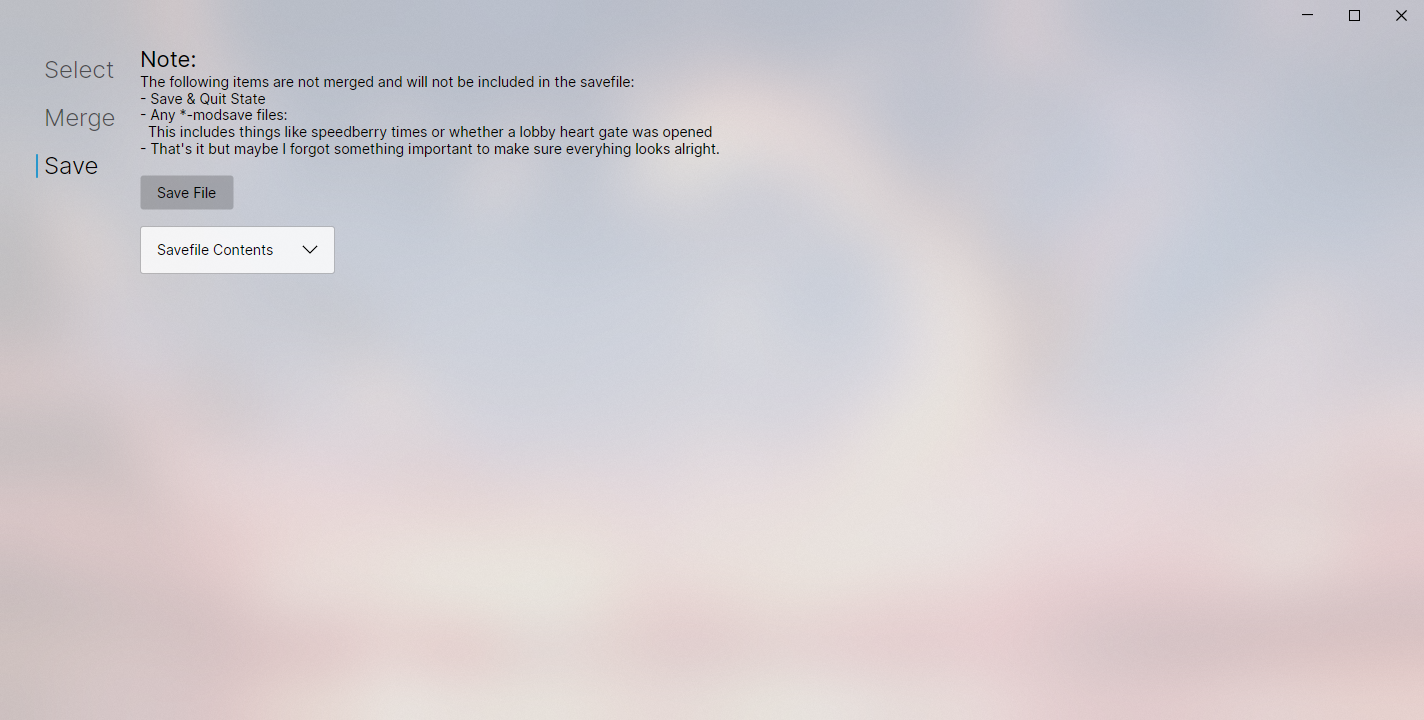
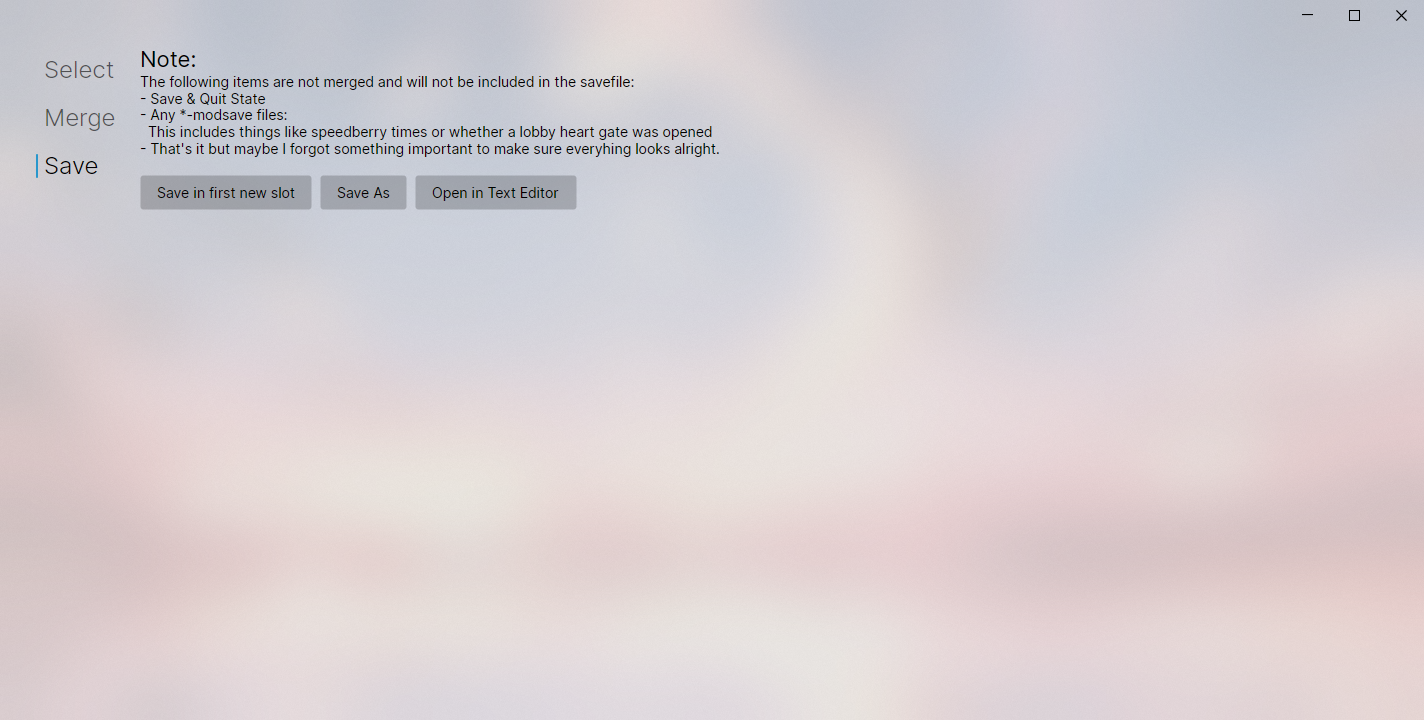
rework save screen

Changed region(s): [[0.0927, 0.2444, 0.4017, 0.3972], [0.3708, 0.0, 0.5253, 0.1528], [0.5871, 0.4278, 0.618, 0.4583]]

diff --git a/SaveMerger/ViewModels/MainWindowViewModel.cs b/SaveMerger/ViewModels/MainWindowViewModel.cs
@@ -3,7 +3,9 @@ using System.Collections.ObjectModel;
 using System.Diagnostics;
 using System.IO;
 using System.Linq;
+using System.Runtime.InteropServices;
 using System.Security;
+using System.Text;
 using System.Xml.Linq;
 using Avalonia.Controls.Selection;
 using Avalonia.Data;
@@ -67,7 +69,10 @@ public partial class MainWindowViewModel : ViewModelBase {
 
     // Select Tab
     public ObservableCollection<Savefile> Savefiles { get; private set; } = [];
+
+    // when not in Select Tab, there is always something selected
     public SelectionModel<Savefile> Selection { get; } = new();
+
     public bool EnoughSelectedToMerge => Selection.Count >= 1;
 
     // Merge Tab
@@ -77,6 +82,9 @@ public partial class MainWindowViewModel : ViewModelBase {
 
     // Save Tab
     [ObservableProperty] private string? _mergedXml;
+    [ObservableProperty] private string? _successText;
+
+    private string? _savedFilename;
 
     #endregion
 
@@ -121,9 +129,10 @@ public partial class MainWindowViewModel : ViewModelBase {
 
     public void Merge() {
         Error = "";
+        _savedFilename = null;
 
         TryError(() => {
-            var saves = Selection.SelectedItems.Select(savefile => savefile.Document);
+            var saves = Selection.SelectedItems.Select(savefile => savefile!.Document);
             var (result, resolutions, errors) = SaveMerger.SaveMerger.Merge(saves);
             _document = result;
 
@@ -148,6 +157,7 @@ public partial class MainWindowViewModel : ViewModelBase {
     }
 
     public void Resolve() {
+        SuccessText = "";
         Error = "";
 
         TryError(() => {
@@ -162,18 +172,43 @@ public partial class MainWindowViewModel : ViewModelBase {
         });
     }
 
-    public async void Save() {
+    public async void SaveNewSlot() {
+        var text = MergedXml!;
+        _savedFilename = await _savefileService.SaveFirstFreeSaveSlot(text);
+        SuccessText = "Saved as " + _savedFilename;
+
+        if (_savedFilename is null) Error = "Could not save file";
+    }
+
+    public async void SaveAs() {
         var text = MergedXml!;
 
         var directoryName = Path.GetDirectoryName(Selection.SelectedItem!.Path);
-        var joined = string.Join('+', Selection.SelectedItems.Select(savefile => savefile.Index));
-        var path = await _savefileService.Save(text, directoryName, joined + ".celeste");
-        if (path is null) return;
+        var joined = string.Join('+', Selection.SelectedItems.Select(savefile => savefile!.Index));
+        _savedFilename = await _savefileService.SaveViaPicker(text, directoryName, joined + ".celeste");
+        SuccessText = "Saved as " + _savedFilename;
 
-        var proc = new Process();
-        proc.StartInfo = new ProcessStartInfo { UseShellExecute = true, FileName = path };
-        proc.Start();
-        await proc.WaitForExitAsync();
+        if (_savedFilename is null) Error = "Could not save file";
+    }
+
+    public async void OpenInTextEditor() {
+        var filePath = _savedFilename;
+
+        if (filePath is null) {
+            filePath = Path.Combine(Path.GetTempPath(), "newsave.celeste");
+            await File.WriteAllTextAsync(filePath, MergedXml);
+        }
+
+        TryError(() => {
+            try {
+                var proc = new Process();
+                proc.StartInfo = new ProcessStartInfo { UseShellExecute = true, FileName = filePath };
+                proc.Start();
+                proc.WaitForExit();
+            } catch (Exception) {
+                Process.Start("notepad.exe", filePath);
+            }
+        });
     }
 
     #endregion

diff --git a/SaveMerger/Services/SavefileService.cs b/SaveMerger/Services/SavefileService.cs
@@ -75,6 +75,20 @@ public class SavefileService : ISavefileService {
             .OrderBy(savefile => savefile.Index);
     }
 
+    public async Task<string?> SaveFirstFreeSaveSlot(string content) {
+        if (_celesteDir is null) return null;
+
+        var path = Enumerable.Range(0, 10000)
+            .Select(index => Path.Join(_celesteDir, "Saves", $"{index}.celeste"))
+            .First(path => !Path.Exists(path));
+
+        await using var fileStream = new FileStream(path, FileMode.CreateNew, FileAccess.Write);
+        await using var writer = new StreamWriter(fileStream);
+        await writer.WriteAsync(content);
+
+        return path;
+    }
+
     private static Savefile? ReadSavefile(string file) {
         if (!int.TryParse(Path.GetFileNameWithoutExtension(file), out var index)) return null;
 
@@ -109,7 +123,7 @@ public class SavefileService : ISavefileService {
             .OfType<Savefile>();
     }
 
-    public async Task<string?> Save(string text, string? directoryName, string? suggestedFilename) {
+    public async Task<string?> SaveViaPicker(string text, string? directoryName, string? suggestedFilename) {
         if (StorageProvider is null) return null;
 
         var startLocation = directoryName is not null

diff --git a/SaveMerger/Services/DummySavefileService.cs b/SaveMerger/Services/DummySavefileService.cs
@@ -27,7 +27,9 @@ public class DummySavefileService : ISavefileService {
         },
     ];
 
-    public Task<string?> Save(string text, string? directory, string? suggestedFilename) =>
+    public Task<string?> SaveFirstFreeSaveSlot(string content) => Task.FromResult((string?)null);
+
+    public Task<string?> SaveViaPicker(string text, string? directory, string? suggestedFilename) =>
         Task.FromResult<string?>(null);
 
     public Task<IEnumerable<Savefile>> OpenMany() =>

diff --git a/SaveMerger/Services/ISavefileService.cs b/SaveMerger/Services/ISavefileService.cs
@@ -15,7 +15,9 @@ public class Savefile {
 public interface ISavefileService {
     IEnumerable<Savefile> List();
 
-    Task<string?> Save(string text, string? directoryName, string suggestedFilename);
+    Task<string?> SaveFirstFreeSaveSlot(string content);
+
+    Task<string?> SaveViaPicker(string text, string? directoryName, string suggestedFilename);
 
     Task<IEnumerable<Savefile>> OpenMany();
 }
